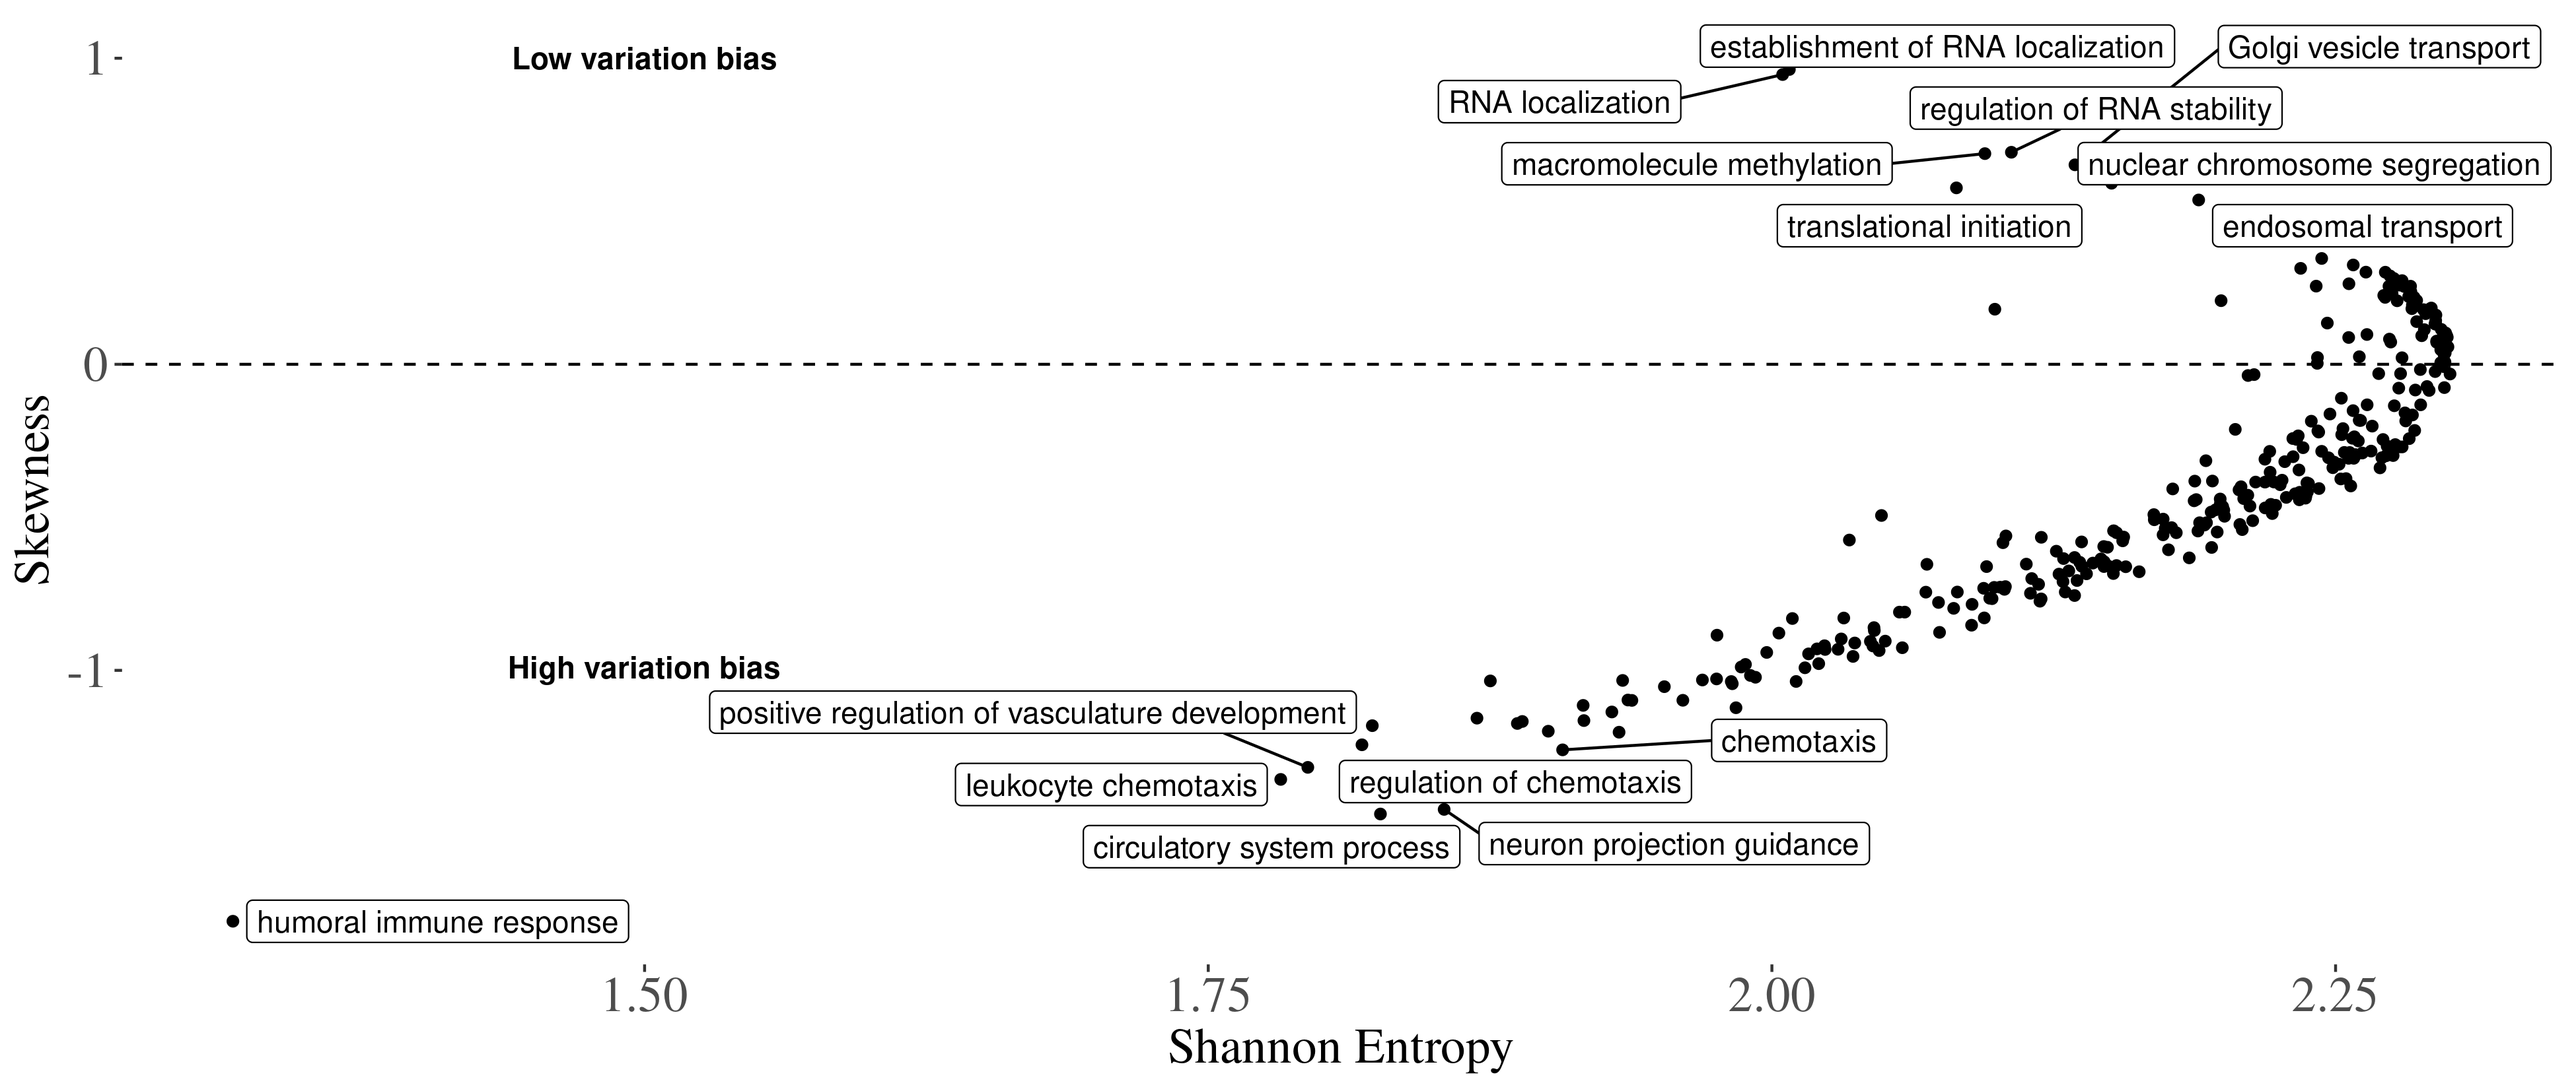
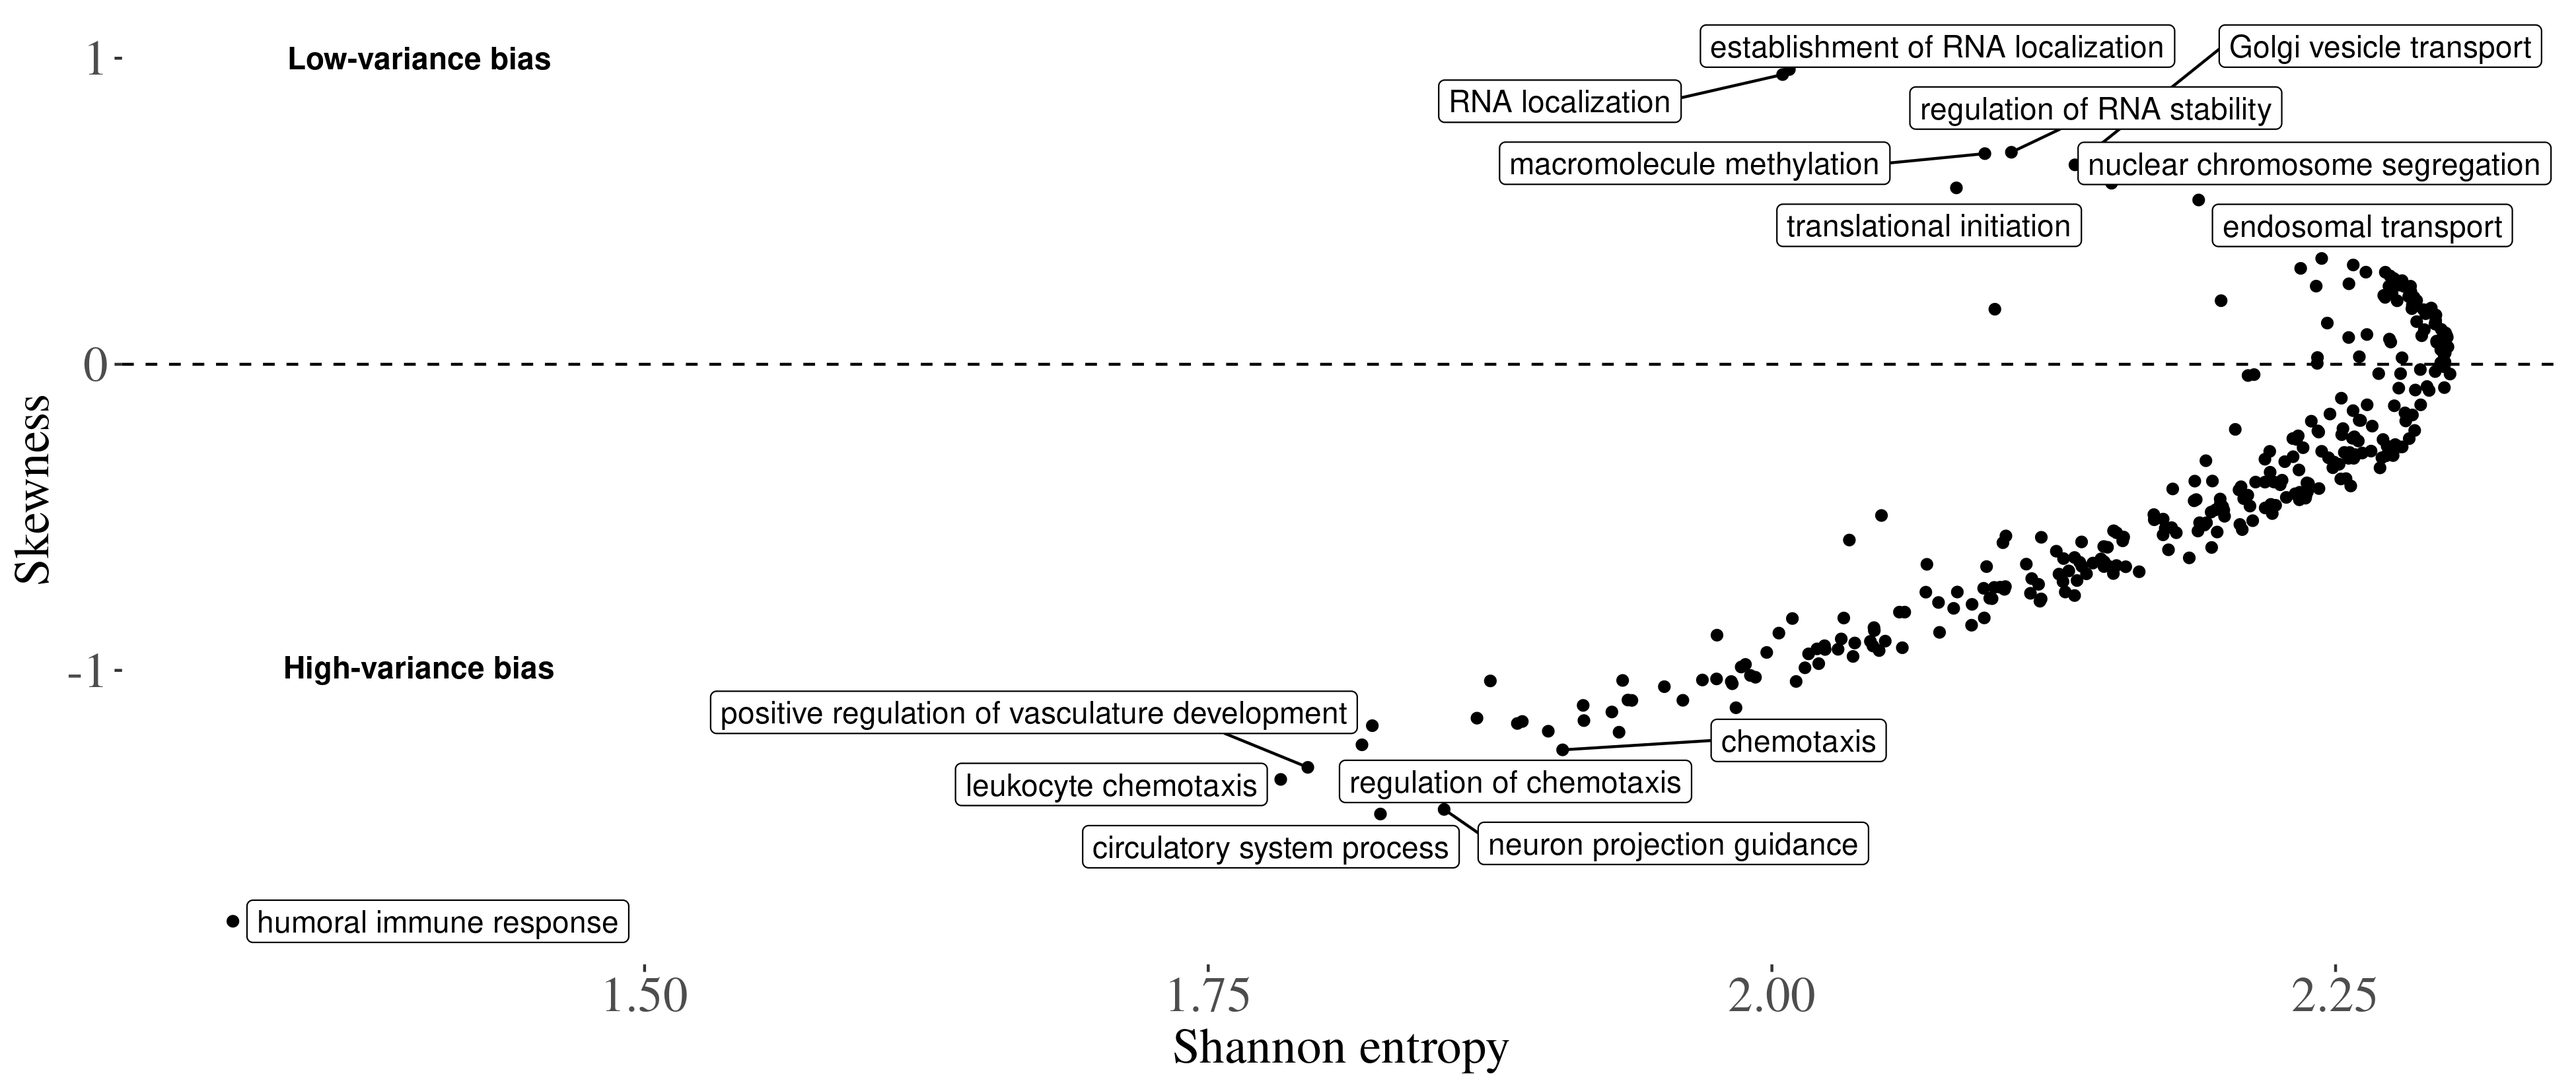
some random text changes and new figures

diff --git a/main.md b/main.md
@@ -134,7 +134,7 @@ Both tissue-specific and across-study ranks are available in the Supporting Info
 To characterize the drivers of across-study similarity, we directly modeled the correlations across-study using a mixed-effect linear model [@Dias2021-wk; @Dias2021-hb].
 In this model, we use individual study, pairwise tissue congruence (whether a comparison is within the same tissue or different tissue), and pairwise study source (GTEx, TCGA, and miscellaneous) as predictors of the correlations (see [Methods](#Methods)).
 This modeling (@fig:corr_model) shows that comparisons of studies within GTEx and TCGA have on average higher values of $\rho_s$, but also that comparing studies across GTEx and TCGA also shows a mild increase in the average correlation (@fig:corr_model C).
-Correlations involving studies that are not from TCGA and GTEx (marked as "Misc.") are on average lower (@fig:corr_model C).
+Correlations involving studies that are not from TCGA or GTEx (marked as "Misc.") are on average lower (@fig:corr_model C).
 Since these two sources are independent, this mild effect on the similarities could be due to the quality of the data coming from these two large projects.
 Tissue also affects the similarity between gene expression SD, with studies using the same tissue being, on average, more similar (@fig:corr_model B).
 However, all of these pairwise effects are mild, and the largest effects on the correlations are those associated with individual studies, in particular some specific tissues, i.e., comparisons involving \textsc{bone marrow} (from GTEx) and study \textsc{srp057500} (which used platelets) are on average lower (@fig:corr_model A). 
@@ -249,7 +249,7 @@ Given this strong functional linkage between function and variance, it is not su
 One interesting aspect of the GO term analysis shown in @fig:skew_entropy and @fig:go_skewness is that there is no biological process term associated with enrichment for intermediate variance genes: the low-entropy terms have either positive or negative skew, never zero skew.
 In other words, there is no annotated biological process for which the associated genes are kept at some intermediary level of variation.
 For the GO terms we used, either there is no relation between the gene expression variance and the biological process, or there is a strong bias toward high or low-variance genes.
-This suggests that selective shaping of gene expression has two modes, corresponding with (1) biological processes under strong stabilizing selection (i.e., variance reducing selection) or (2) biological processes under disruptive selection (i.e., variance increasing selection).
+This suggests that selective shaping of gene expression has two modes, corresponding with (1) biological processes under strong stabilizing selection (i.e., variance-reducing selection) or (2) biological processes under disruptive selection (i.e., varianc-increasing selection).
 In short, we find strong support for the idea that there are genes with consistently more (or less) variable expression levels, and that these differences in variance are the result of different patterns of selection.
 
 Following Alemu et al. [@Alemu2014-jo], we observe that epigenetic signatures of gene regulation, such as enhancer histone marks, make up a higher proportion of the surrounding genomic regions of genes that exhibit higher variance in expression.
@@ -270,7 +270,7 @@ The authors hypothesize that the reduced variance in Schizophrenia patients redu
 This suggests several types of shifts in gene expression variation are possible, with different outcomes.
 We highlight three distinct possibilities:
 First, low variance genes, under strong stabilizing selection, could become more variable under stress, indicating a reduced capacity for maintaining homeostasis.
-Second, high-variance genes, expected to be reactive to changes in the environment, could become less variable, indicating reduced capacity to respond to external stimuli.
+Second, high-variance genes, expected to be reactive to changes in the environment, could become less variable, indicating a reduced capacity to respond to external stimuli.
 Third, the covariance between different genes could be altered, leading to decoherence between interdependent genes [@Lea2019-pq].
 Any one of these changes in expression variance patterns could have physiological consequences, and exploring these differences should be a major part of linking gene expression to cell phenotypes and function (see Hagai et al. [-@Hagai2018-fu] for example).
 Genes are also expected to differ in their capacity to maintain an optimal level of gene expression variance [@Macneil2011-ax].
